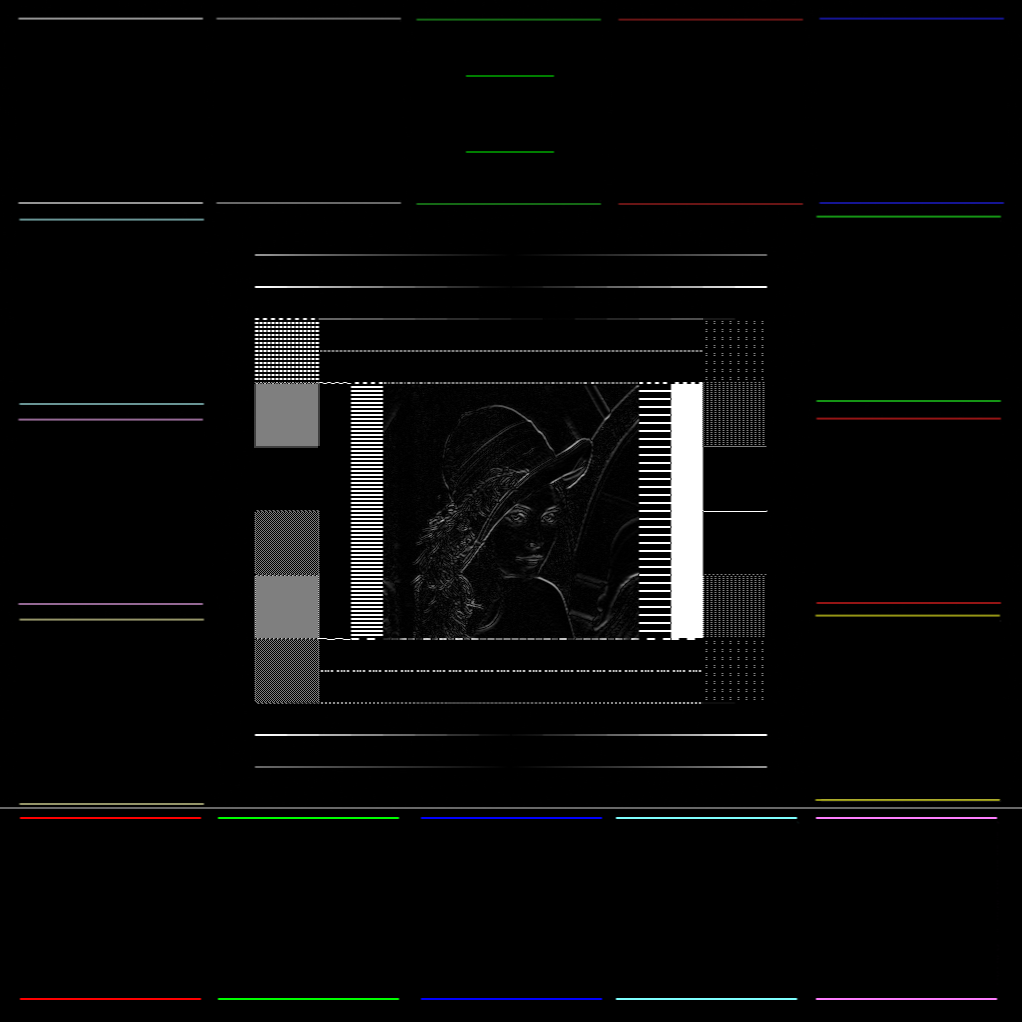
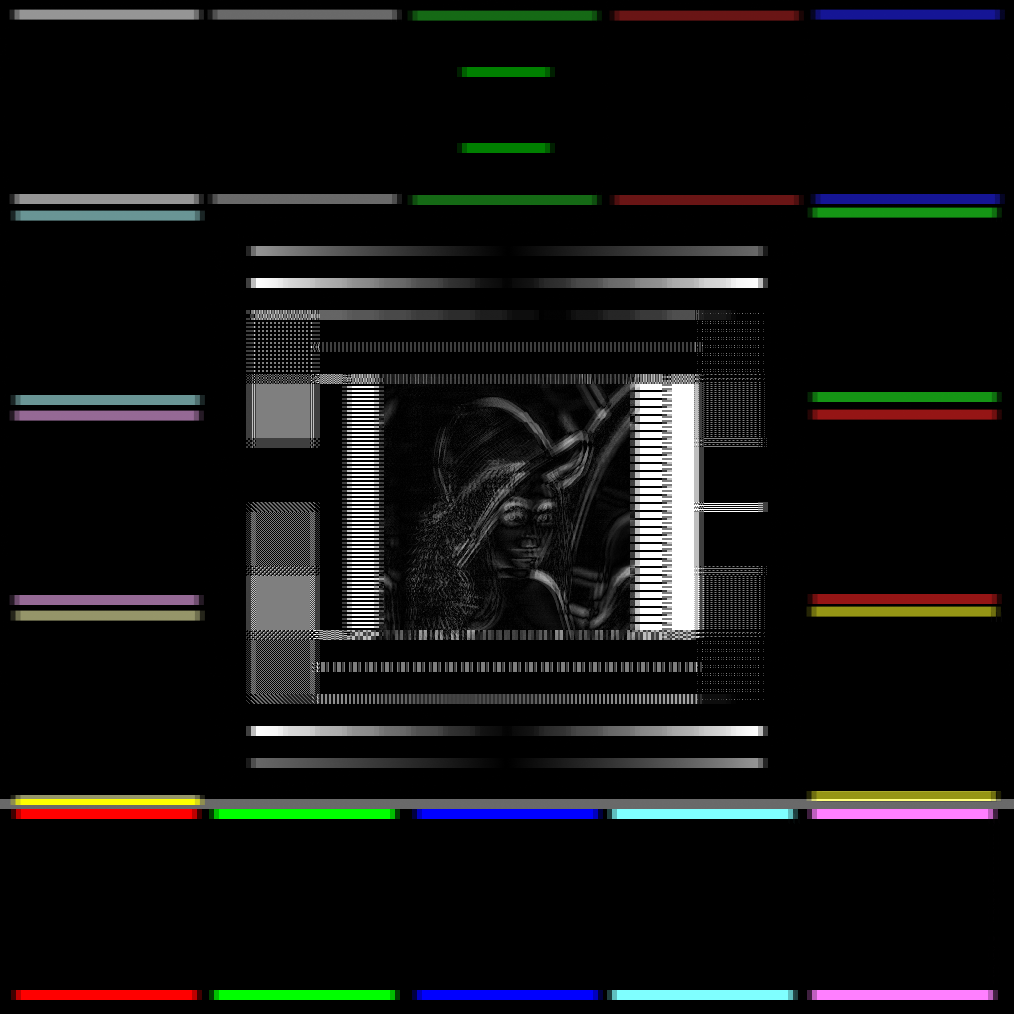
Atualiza atrous, main, utils e resultado sobel

diff --git a/main.py b/main.py
@@ -1,6 +1,7 @@
 import argparse
 import json
 import os
+
 import numpy as np
 from PIL import Image
 import tkinter as tk
@@ -12,15 +13,42 @@ from utils import sobel_postprocess, to_uint8_clip
 
 def load_config(path):
     """
-    Carrega o arquivo JSON com os parâmetros do filtro.
+    Carrega o arquivo JSON de configuração do filtro.
+
+    Finalidade:
+    - Ler os parâmetros externos do processamento, como kernel,
+      taxa de dilatação (r), stride, ativação e indicadores
+      específicos do filtro.
+    - Separar a configuração da lógica do código, tornando o
+      programa mais flexível e reutilizável.
+
+    Parâmetros:
+        path (str): caminho do arquivo JSON.
+
+    Retorno:
+        dict: dicionário com os parâmetros do filtro.
     """
-    with open(path, 'r', encoding='utf-8') as f:
+    with open(path, "r", encoding="utf-8") as f:
         return json.load(f)
 
 
 def show_images(original, result, title="Resultado"):
     """
-    Exibe a imagem original e o resultado lado a lado.
+    Exibe a imagem original e a imagem processada lado a lado.
+
+    Finalidade:
+    - Facilitar a comparação visual entre entrada e saída.
+    - Apoiar análise qualitativa dos efeitos do filtro aplicado.
+
+    Funcionamento:
+    - Converte os arrays NumPy para imagens PIL.
+    - Cria uma imagem combinada com original e resultado.
+    - Exibe a composição em uma janela Tkinter.
+
+    Parâmetros:
+        original (np.ndarray): imagem original em formato RGB.
+        result (np.ndarray): imagem resultante do processamento.
+        title (str): título da janela de visualização.
     """
     root = tk.Tk()
     root.title(title)
@@ -28,6 +56,8 @@ def show_images(original, result, title="Resultado"):
     original_img = Image.fromarray(original)
     result_img = Image.fromarray(result)
 
+    # Define o tamanho da imagem composta que irá acomodar
+    # as duas imagens lado a lado.
     width = original_img.width + result_img.width
     height = max(original_img.height, result_img.height)
 
@@ -39,26 +69,56 @@ def show_images(original, result, title="Resultado"):
     label = tk.Label(root, image=tk_img)
     label.pack()
 
+    # Mantém a referência da imagem vinculada ao widget,
+    # evitando problemas de coleta de lixo na interface.
+    label.image = tk_img
+
     root.mainloop()
 
 
 def main():
     """
-    Função principal do programa.
+    Controla o fluxo principal de execução do programa.
+
+    Etapas executadas:
+    1. Lê os argumentos da linha de comando.
+    2. Carrega a imagem de entrada em RGB.
+    3. Lê a configuração do filtro a partir do JSON.
+    4. Aplica a correlação atrous na imagem.
+    5. Realiza o pós-processamento necessário:
+       - Sobel: valor absoluto + normalização
+       - Demais filtros: clipping para faixa válida
+    6. Cria o diretório de saída, se necessário.
+    7. Salva a imagem resultante.
+    8. Exibe a comparação visual, caso solicitado.
+
+    Essa função não implementa a matemática do filtro,
+    mas coordena todas as etapas do processamento.
     """
-    parser = argparse.ArgumentParser()
-    parser.add_argument("-i", "--input", required=True)
-    parser.add_argument("-c", "--config", required=True)
-    parser.add_argument("-o", "--output", required=True)
-    parser.add_argument("--show", action="store_true")
+    parser = argparse.ArgumentParser(
+        description="Aplica correlação espacial/dilatada em uma imagem RGB com configuração via JSON."
+    )
+    parser.add_argument("-i", "--input", required=True, help="Caminho da imagem de entrada.")
+    parser.add_argument("-c", "--config", required=True, help="Caminho do arquivo JSON do filtro.")
+    parser.add_argument("-o", "--output", required=True, help="Caminho da imagem de saída.")
+    parser.add_argument(
+        "--show",
+        action="store_true",
+        help="Exibe a imagem original e o resultado lado a lado."
+    )
 
     args = parser.parse_args()
 
+    # Carrega a imagem de entrada e garante o formato RGB,
+    # compatível com o processamento canal a canal.
     img = Image.open(args.input).convert("RGB")
     img_np = np.array(img, dtype=np.uint8)
 
+    # Lê os parâmetros do filtro definidos no arquivo JSON.
     config = load_config(args.config)
 
+    # Aplica a correlação atrous utilizando os parâmetros
+    # informados na configuração.
     result = atrous_correlation_rgb(
         img_np,
         kernel=config["kernel"],
@@ -67,19 +127,24 @@ def main():
         activation=config["activation"]
     )
 
-    # se for Sobel, aplica valor absoluto + normalização
+    # Filtros Sobel geram gradientes que exigem tratamento
+    # adicional para visualização adequada.
     if config.get("is_sobel", False):
         result = sobel_postprocess(result)
     else:
+        # Para os demais filtros, basta limitar os valores
+        # ao intervalo válido de imagem [0, 255].
         result = to_uint8_clip(result)
 
-    # cria a pasta de saída se necessário
+    # Garante que o diretório de saída exista antes de salvar
+    # o arquivo resultante.
     output_dir = os.path.dirname(args.output)
     if output_dir:
         os.makedirs(output_dir, exist_ok=True)
 
     Image.fromarray(result).save(args.output)
 
+    # Exibe a comparação visual apenas se solicitado pelo usuário.
     if args.show:
         show_images(img_np, result, config["name"])
 

diff --git a/atrous.py b/atrous.py
@@ -4,6 +4,23 @@ import numpy as np
 def apply_activation(x, activation):
     """
     Aplica a função de ativação ao resultado da correlação.
+
+    Finalidade:
+    - Ajustar o mapa de saída conforme a ativação especificada
+      na configuração do filtro.
+    - Permitir suporte a diferentes comportamentos pós-correlação.
+
+    Regras implementadas:
+    - "relu": substitui valores negativos por zero.
+    - qualquer outro valor: mantém a saída inalterada
+      (comportamento equivalente à função identidade).
+
+    Parâmetros:
+        x (np.ndarray): matriz resultante da correlação.
+        activation (str): nome da ativação definida no JSON.
+
+    Retorno:
+        np.ndarray: resultado após aplicação da ativação.
     """
     if activation == "relu":
         return np.maximum(x, 0)
@@ -14,41 +31,86 @@ def atrous_correlation_rgb(img, kernel, r=1, stride=1, activation="identity"):
     """
     Aplica correlação espacial dilatada (à trous) em uma imagem RGB.
 
-    A função processa os três canais da imagem (R, G e B) separadamente,
-    sem uso de padding, e retorna o resultado em float32.
+    Características da implementação:
+    - Processa os três canais da imagem separadamente (R, G e B).
+    - Utiliza correlação manual, sem bibliotecas prontas de filtragem.
+    - Não utiliza padding; portanto, a saída é calculada apenas
+      na região válida da imagem.
+    - Retorna o resultado em float32, preservando a precisão
+      numérica antes do pós-processamento final.
+
+    Parâmetros:
+        img (np.ndarray): imagem de entrada no formato RGB e tipo uint8.
+        kernel (list | np.ndarray): máscara de pesos utilizada na correlação.
+        r (int): taxa de dilatação do kernel.
+        stride (int): passo de deslocamento da janela de correlação.
+        activation (str): função de ativação aplicada ao final.
+
+    Retorno:
+        np.ndarray: imagem resultante da correlação, em float32.
     """
 
+    # Valida o tipo da imagem de entrada para garantir compatibilidade
+    # com o processamento esperado no projeto.
     if img.dtype != np.uint8:
         raise ValueError("Imagem deve estar em uint8.")
 
+    # Converte o kernel para float32 para garantir precisão adequada
+    # durante as multiplicações e somas da correlação.
     kernel = np.array(kernel, dtype=np.float32)
     m, n = kernel.shape
 
+    # Obtém as dimensões da imagem:
+    # H = altura, W = largura, C = número de canais.
     H, W, C = img.shape
 
-    # tamanho efetivo do kernel dilatado
+    # Calcula o tamanho efetivo do kernel após a dilatação.
+    # Mesmo sem aumentar a quantidade de pesos, a área coberta
+    # pelo kernel cresce conforme o valor de r.
     eff_h = 1 + (m - 1) * r
     eff_w = 1 + (n - 1) * r
 
+    # Garante que a imagem seja grande o suficiente para receber
+    # o kernel dilatado sem sair da região válida.
     if H < eff_h or W < eff_w:
         raise ValueError("Kernel maior que imagem.")
 
+    # Calcula as dimensões da saída considerando:
+    # - ausência de padding
+    # - tamanho efetivo do kernel
+    # - passo definido por stride
     Hout = (H - eff_h) // stride + 1
     Wout = (W - eff_w) // stride + 1
 
+    # Inicializa a imagem de saída com zeros.
+    # O tipo float32 preserva valores intermediários antes da conversão final.
     output = np.zeros((Hout, Wout, 3), dtype=np.float32)
 
-    for c in range(3):  # R, G, B
+    # Processa cada canal de cor independentemente:
+    # canal 0 = R, canal 1 = G, canal 2 = B.
+    for c in range(3):
         for i in range(Hout):
             for j in range(Wout):
                 acc = 0.0
+
+                # Percorre todos os elementos do kernel.
+                # A posição de amostragem na imagem considera:
+                # - stride: deslocamento da janela
+                # - r: espaçamento interno entre os pontos do kernel
                 for ki in range(m):
                     for kj in range(n):
                         y = i * stride + ki * r
                         x = j * stride + kj * r
+
+                        # Acumula a soma ponderada entre pixel e peso
+                        # correspondente do kernel.
                         acc += img[y, x, c] * kernel[ki, kj]
 
+                # Armazena o valor calculado para o pixel de saída
+                # na posição correspondente.
                 output[i, j, c] = acc
 
+    # Aplica a ativação ao resultado final da correlação.
     output = apply_activation(output, activation)
+
     return output

diff --git a/utils.py b/utils.py
@@ -3,28 +3,75 @@ import numpy as np
 
 def histogram_stretch(channel):
     """
-    Realiza expansão linear do histograma, normalizando os valores
-    para o intervalo [0,255].
+    Realiza expansão linear do histograma de um canal da imagem.
+
+    Finalidade:
+    - Normalizar os valores de intensidade do canal para o intervalo [0, 255].
+    - Aumentar o contraste da imagem quando os valores estão concentrados
+      em uma faixa pequena de intensidades.
+
+    Funcionamento:
+    - Calcula o menor e o maior valor presentes no canal.
+    - Aplica uma transformação linear que redistribui os valores
+      proporcionalmente dentro do intervalo [0,255].
+
+    Fórmula aplicada:
+        novo_valor = (valor - min) * (255 / (max - min))
+
+    Parâmetros:
+        channel (np.ndarray): canal da imagem em float ou inteiro.
+
+    Retorno:
+        np.ndarray: canal normalizado no formato uint8.
     """
+
+    # Determina os limites de intensidade do canal
     min_val = np.min(channel)
     max_val = np.max(channel)
 
+    # Caso todos os valores sejam iguais, evita divisão por zero
+    # retornando um canal totalmente preto.
     if max_val - min_val == 0:
         return np.zeros_like(channel, dtype=np.uint8)
 
+    # Aplica a expansão linear das intensidades
     stretched = (channel - min_val) * (255.0 / (max_val - min_val))
+
+    # Garante que os valores estejam dentro do intervalo válido
+    # e converte para o formato padrão de imagem (uint8).
     return np.clip(stretched, 0, 255).astype(np.uint8)
 
 
 def sobel_postprocess(img):
     """
-    Pós-processamento para filtros Sobel:
-    - aplica valor absoluto
-    - aplica expansão de histograma em cada canal
+    Realiza o pós-processamento necessário para os filtros Sobel.
+
+    Justificativa:
+    - Operadores Sobel calculam gradientes de intensidade, que podem
+      gerar valores positivos e negativos.
+    - Para visualização da magnitude das bordas, é necessário remover
+      o sinal e ajustar os valores ao intervalo da imagem.
+
+    Etapas executadas:
+    1. Aplica valor absoluto ao resultado da correlação.
+    2. Aplica expansão de histograma em cada canal RGB.
+    3. Converte o resultado final para uint8.
+
+    Parâmetros:
+        img (np.ndarray): resultado da correlação Sobel em float32.
+
+    Retorno:
+        np.ndarray: imagem final pronta para exibição ou salvamento.
     """
+
+    # Remove o sinal dos gradientes, preservando apenas a magnitude
     img = np.abs(img.astype(np.float32))
+
+    # Inicializa a matriz de saída com o mesmo formato da imagem
     result = np.zeros_like(img, dtype=np.uint8)
 
+    # Aplica expansão de histograma independentemente
+    # para cada canal da imagem RGB
     for c in range(3):
         result[:, :, c] = histogram_stretch(img[:, :, c])
 
@@ -33,7 +80,22 @@ def sobel_postprocess(img):
 
 def to_uint8_clip(img):
     """
-    Converte a saída da correlação comum para uint8,
-    limitando os valores ao intervalo [0,255].
+    Converte a saída da correlação comum para formato de imagem padrão.
+
+    Finalidade:
+    - Garantir que os valores da imagem estejam no intervalo válido [0,255].
+    - Converter o tipo de dados para uint8, compatível com
+      bibliotecas de visualização e salvamento de imagens.
+
+    Funcionamento:
+    - Aplica clipping para limitar valores fora da faixa permitida.
+    - Converte o resultado para inteiro de 8 bits.
+
+    Parâmetros:
+        img (np.ndarray): imagem resultante da correlação.
+
+    Retorno:
+        np.ndarray: imagem final no formato uint8.
     """
+
     return np.clip(img, 0, 255).astype(np.uint8)
